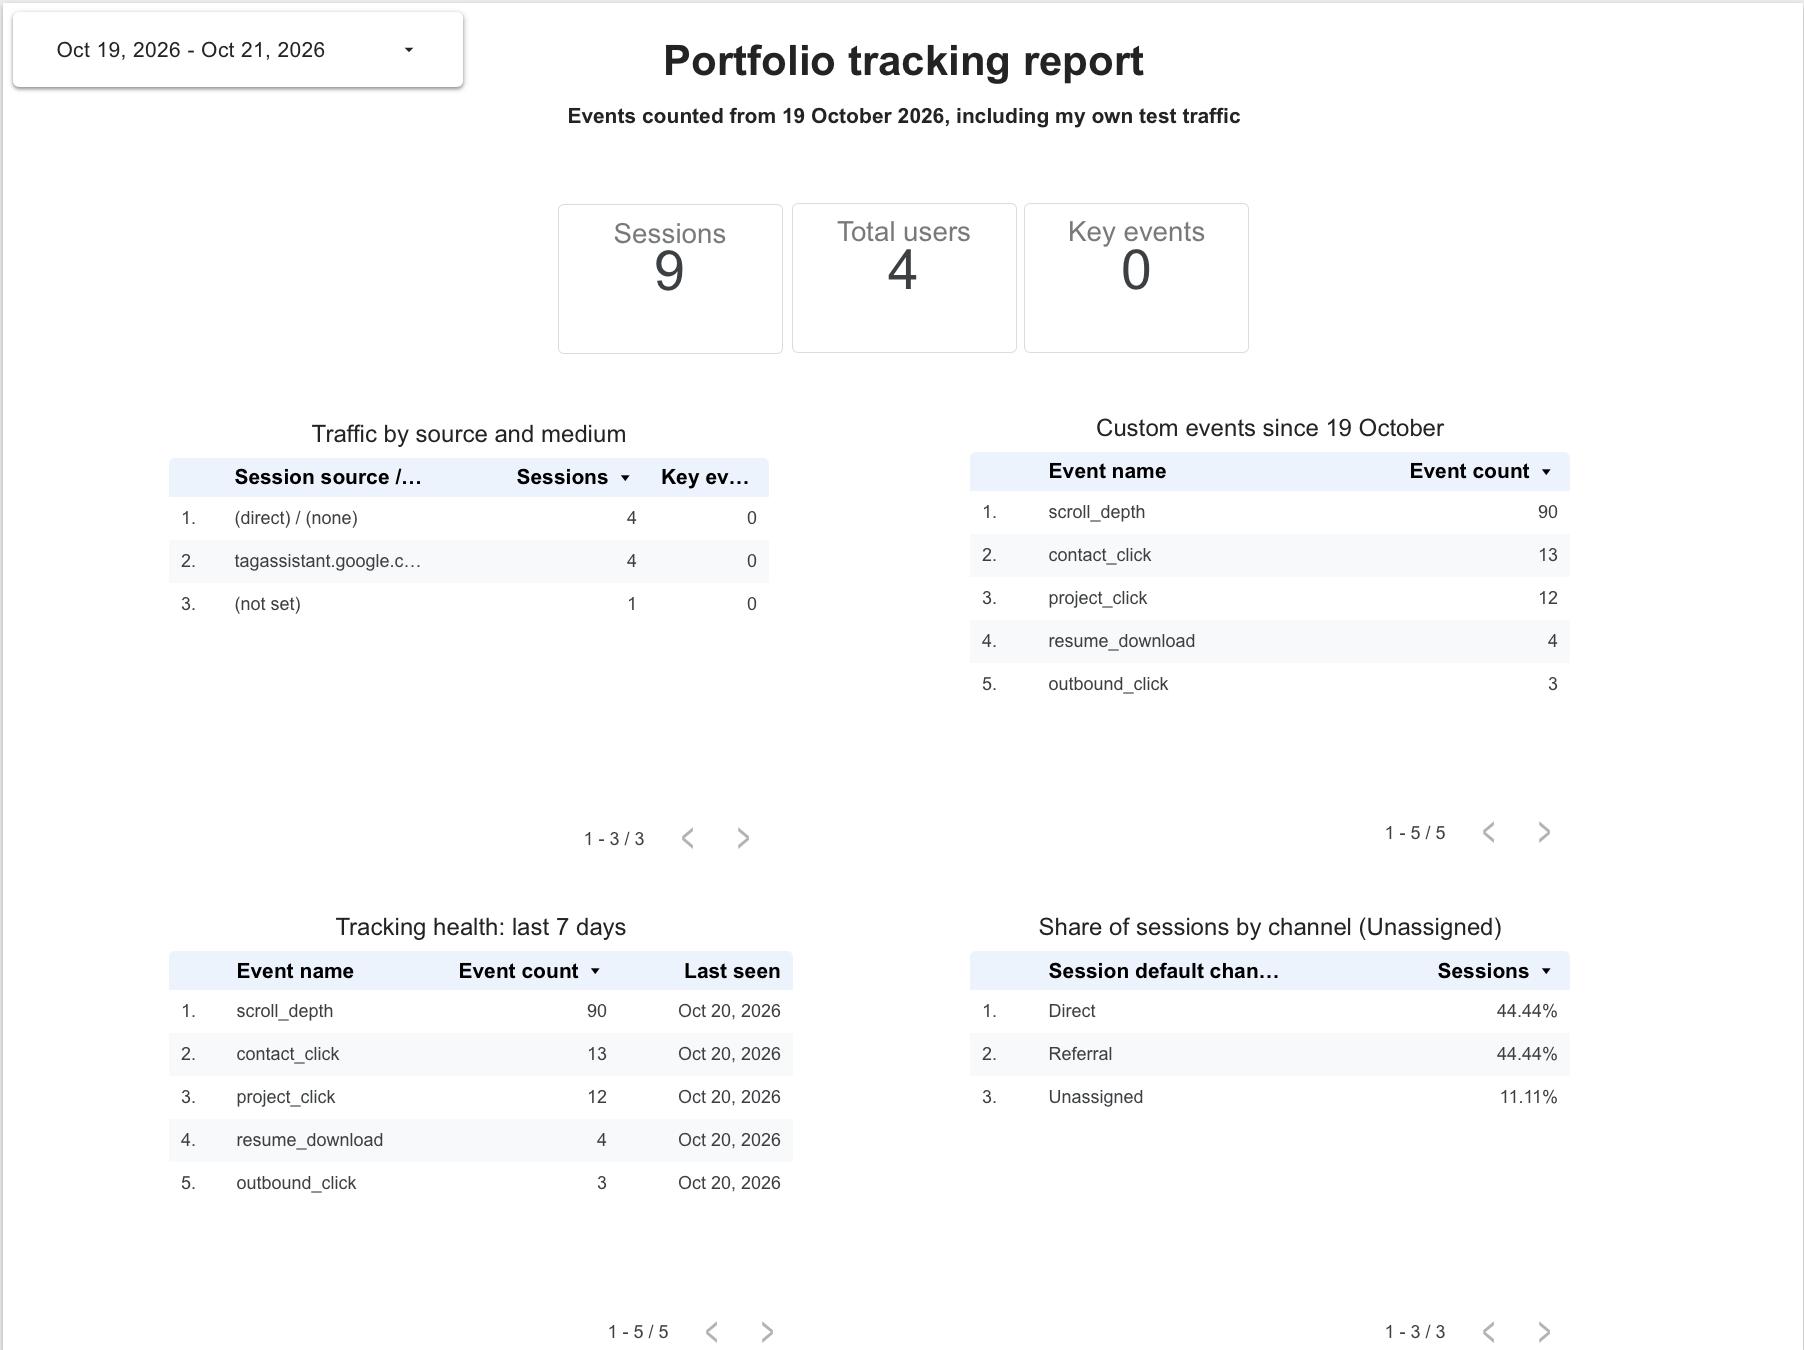
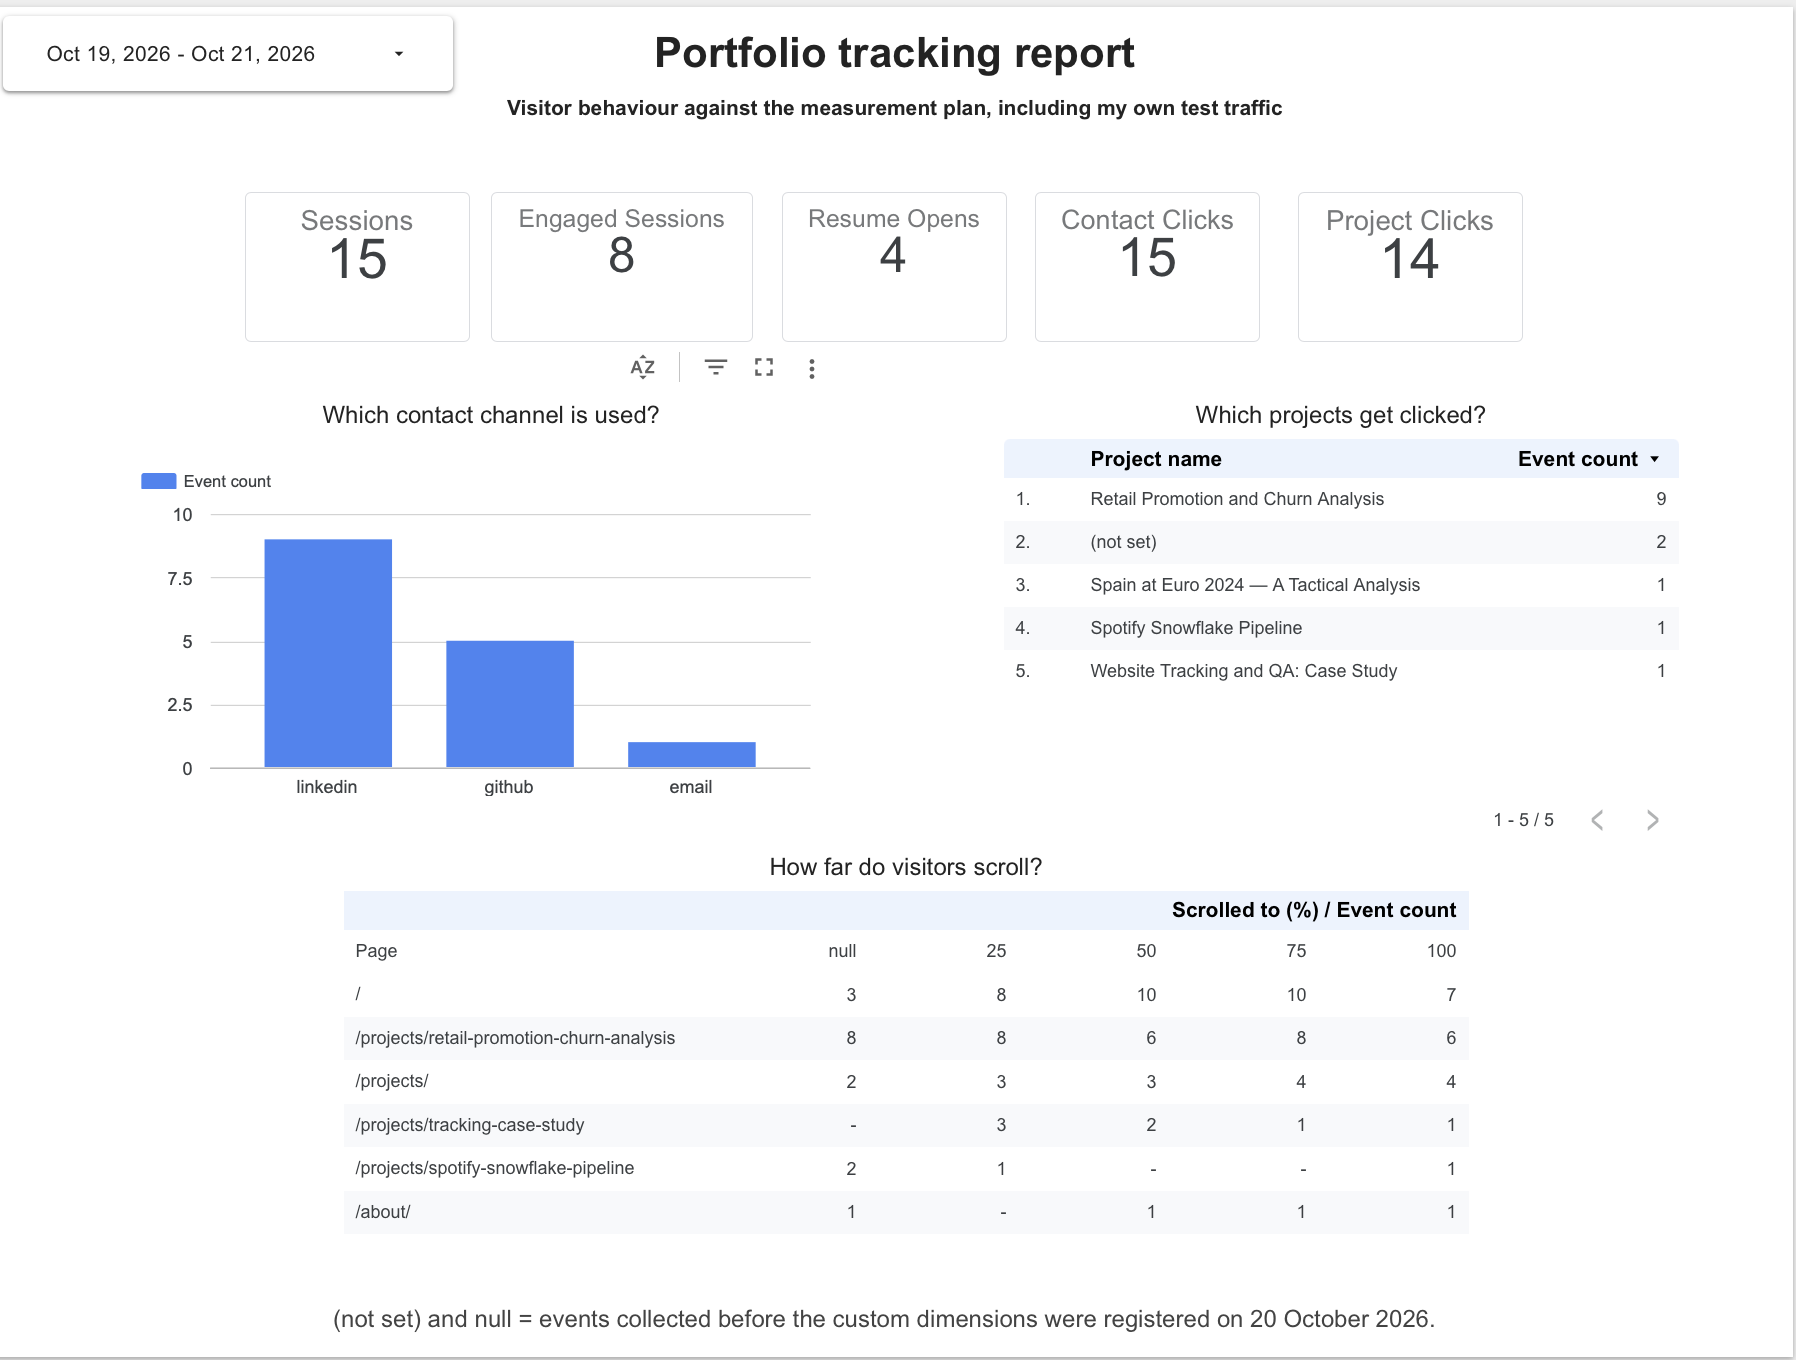
Redesign report, add BigQuery check evidence

diff --git a/12-tracking-implementation-qa/README.md b/12-tracking-implementation-qa/README.md
@@ -37,9 +37,9 @@ Version 1.0, 19 October 2026.
 | Resume interest | Resume opens per 100 engaged sessions | `resume_download`, engaged sessions | Whether the resume button is placed and labelled well |
 | Contact intent | Contact clicks by channel: email, LinkedIn, GitHub | `contact_click`, `contact_method` | Which channel to put first |
 | Project engagement | Clicks to each project, and how far project pages are scrolled | `project_click`, `scroll_depth`, `outbound_click` | Which projects to feature, and in what order |
-| Outreach attribution | Sessions and key events by source, medium and campaign, and the share of sessions in Unassigned | Session source, medium, campaign, key events | Which channel brings engaged visitors, and whether the UTM standard is followed |
+| Outreach attribution | Sessions and key events by source, medium and campaign, and the number of sessions in Unassigned | Session source, medium, campaign, channel group, key events | Which channel brings engaged visitors, and whether the UTM standard is followed |
 
-**Tracking health:** each custom event has a 7-day count and a last-seen date, shown next to the Unassigned share of sessions. It is an operating check, not a KPI. A count and last-seen date show when an event stops arriving, not when a parameter goes missing. That needs the post-release test below or a parameter-level query.
+**Tracking health:** each custom event has a 7-day count and a last-seen date, shown on page 2 of the report. It is an operating check, not a KPI. A count and last-seen date show when an event stops arriving, not when a parameter goes missing. That needs the post-release test below or a parameter-level query.
 
 **UTM standard for outreach links.** Links I share to this site carry `utm_source` (where it is posted, lowercase), `utm_medium` (the channel type, lowercase) and `utm_campaign` (purpose and month, hyphenated, for example recruiter-outreach-2026-10). Links within the site are never tagged, and each tagged link is recorded in a list.
 
@@ -92,6 +92,8 @@ Events are pushed to `window.dataLayer` by `assets/js/tracking.js` and sent to G
       FROM `<project>.analytics_<property_id>.events_*`
       WHERE event_name = 'contact_click'
       GROUP BY event_date
+
+![BigQuery result: 13 contact_click events on 20 October, 1 missing link_location](screenshots/12-bigquery-missing-parameter.png)
 
 | Date | Change |
 |---|---|
@@ -172,8 +174,8 @@ Compared by presence in DebugView for the same interactions, so the counts thems
 ## Report
 
 A two-page Looker Studio report (Google now calls it Data Studio), counting from 19 October 2026.
-- Page 1: sessions, users and key events, traffic by source and medium, custom event counts, tracking health for the last 7 days with the last-seen date, and the share of sessions by channel, including Unassigned.
-- Page 2: top pages and campaigns.
+- Page 1, Visitor behaviour: sessions, engaged sessions, resume opens, contact clicks and project clicks, with contact clicks by channel, project clicks by project and scroll depth by page.
+- Page 2, Traffic and tracking health: sessions and key events by source, medium, campaign and channel (including Unassigned), the 7-day count and last-seen date of each custom event, top pages, and link clicks by location.
 
 ![Report page 1](screenshots/10-looker-report-page-1.png)
 
@@ -194,5 +196,5 @@ A two-page Looker Studio report (Google now calls it Data Studio), counting from
 - `README.md`: this document.
 - `tracking.js`: the dataLayer script, version 3.
 - `gtm-container-v4.json`: the GTM container export, version 4.
-- `screenshots/`: the 11 images used above.
+- `screenshots/`: the 12 images used above.
 - `automated-tests/`: Playwright tests that check each event against the specification in Chromium and WebKit (the engine Safari uses)
